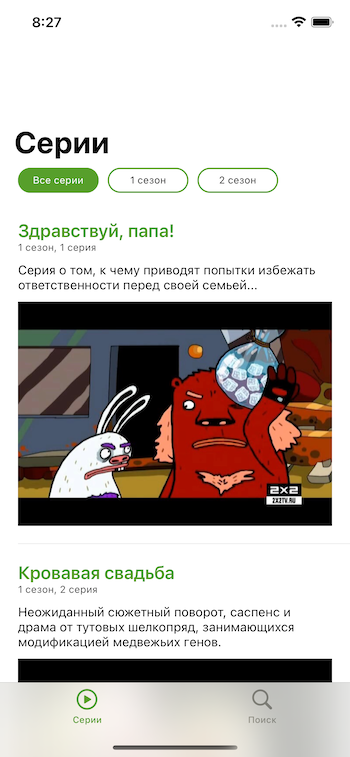
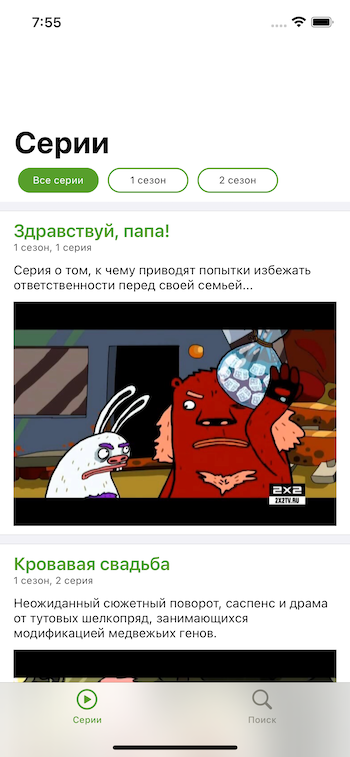
Improving the series list

diff --git a/App/Atomles/Classes/Presentation/Scenes/Series List/View/SeriesListViewController.swift b/App/Atomles/Classes/Presentation/Scenes/Series List/View/SeriesListViewController.swift
@@ -7,7 +7,7 @@
 
 import UIKit
 
-protocol SeriesViewProtocol: AnyObject {
+protocol SeriesListViewProtocol: AnyObject {
     func reloadData()
 }
 
@@ -30,7 +30,7 @@ class SeriesViewController: UIViewController {
     }
     
     // MARK: - Properties
-    var presenter: SeriesPresenterProtocol?
+    var presenter: SeriesListPresenterProtocol?
         
     private var seriesFilter: SeriesFilter = .all
     
@@ -49,11 +49,15 @@ class SeriesViewController: UIViewController {
     }()
     
     private lazy var seriesListTableView: UITableView = {
-        let tableView = UITableView()
+        let tableView = UITableView(frame: .zero, style: .grouped)
         tableView.register(EpisodeCell.self, forCellReuseIdentifier: EpisodeCell.reuseId)
+        tableView.tableHeaderView = .init(frame: .init(x: 0, y: 0, width: 0, height: 10))
+        tableView.tableFooterView = .init(frame: .init(x: 0, y: 0, width: 0, height: CGFloat.leastNonzeroMagnitude))
+        tableView.sectionHeaderHeight = 0
+        tableView.sectionFooterHeight = 10
+        tableView.translatesAutoresizingMaskIntoConstraints = false
         tableView.delegate = self
         tableView.dataSource = self
-        tableView.translatesAutoresizingMaskIntoConstraints = false
         return tableView
     }()
     
@@ -65,7 +69,7 @@ class SeriesViewController: UIViewController {
 }
 
 // MARK: - View Protocol
-extension SeriesViewController: SeriesViewProtocol {
+extension SeriesViewController: SeriesListViewProtocol {
     
     func reloadData() {
         seriesListTableView.reloadData()
@@ -85,9 +89,12 @@ extension SeriesViewController: UICollectionViewDelegate, UICollectionViewDataSo
         guard let filter = SeriesFilter(rawValue: indexPath.item) else { return cell }
         
         switch filter {
-        case .all:     cell.configure(with: "Все серии")
-        case .season1: cell.configure(with: "1 сезон")
-        case .season2: cell.configure(with: "2 сезон")
+        case .all:
+            cell.configure(with: "Все серии")
+        case .season1:
+            cell.configure(with: "1 сезон")
+        case .season2:
+            cell.configure(with: "2 сезон")
         }
         
         if filter == seriesFilter {
@@ -118,7 +125,11 @@ extension SeriesViewController: UICollectionViewDelegate, UICollectionViewDataSo
 extension SeriesViewController: UITableViewDelegate, UITableViewDataSource {
     
     func tableView(_ tableView: UITableView, numberOfRowsInSection section: Int) -> Int {
-        return presenter?.numberOfRowsInSection() ?? 0
+        return 1
+    }
+    
+    func numberOfSections(in tableView: UITableView) -> Int {
+        return presenter?.numberOfSections() ?? 0
     }
     
     func tableView(_ tableView: UITableView, cellForRowAt indexPath: IndexPath) -> UITableViewCell {

diff --git a/App/Atomles/Classes/Presentation/Scenes/Series List/Presenter/SeriesListPresenter.swift b/App/Atomles/Classes/Presentation/Scenes/Series List/Presenter/SeriesListPresenter.swift
@@ -1,5 +1,5 @@
 //
-//  SeriesPresenter.swift
+//  SeriesListPresenter.swift
 //  Atomles
 //
 //  Created by Ildar on 25.03.2022.
@@ -7,25 +7,25 @@
 
 import Foundation
 
-protocol SeriesPresenterProtocol {
+protocol SeriesListPresenterProtocol {
     func viewDidLoad()
     func seriesForRowAt(indexPath: IndexPath) -> SeriesResponse?
-    func numberOfRowsInSection() -> Int?
+    func numberOfSections() -> Int?
     func retreiveLink(indexPath: IndexPath) -> String?
     func setSeriesFilter(filter: SeriesFilter)
 }
 
-class SeriesPresenter {
+class SeriesListPresenter {
     
     // MARK: - Properties
-    weak var view: SeriesViewProtocol!
+    weak var view: SeriesListViewProtocol!
     private let seriesService: SeriesServiceProtocol
     
     private var allSeries: [SeriesResponse]?
     private var series: [SeriesResponse]?
     
     // MARK: - Initialization
-    init(view: SeriesViewProtocol, seriesService: SeriesServiceProtocol) {
+    init(view: SeriesListViewProtocol, seriesService: SeriesServiceProtocol) {
         self.view = view
         self.seriesService = seriesService
     }
@@ -43,26 +43,26 @@ class SeriesPresenter {
 }
 
 // MARK: - Presenter Protocol
-extension SeriesPresenter: SeriesPresenterProtocol {
+extension SeriesListPresenter: SeriesListPresenterProtocol {
     
     func viewDidLoad() {
         loadAllSeries()
     }
     
     func seriesForRowAt(indexPath: IndexPath) -> SeriesResponse? {
-        guard let series = series?[indexPath.row] else {
+        guard let series = series?[indexPath.section] else {
             return nil
         }
 
         return series
     }
     
-    func numberOfRowsInSection() -> Int? {
+    func numberOfSections() -> Int? {
         return series?.count
     }
     
     func retreiveLink(indexPath: IndexPath) -> String? {
-        guard let series = series?[indexPath.row] else {
+        guard let series = series?[indexPath.section] else {
             return nil
         }
 

diff --git a/App/Atomles/Classes/Presentation/Scenes/Series List/View/Cell/EpisodeCell.swift b/App/Atomles/Classes/Presentation/Scenes/Series List/View/Cell/EpisodeCell.swift
@@ -25,7 +25,7 @@ class EpisodeCell: UITableViewCell {
     private let titleLabel: UILabel = {
         let label = UILabel()
         label.font = UIFont.systemFont(ofSize: 20, weight: .semibold)
-        label.textColor = Colors.seriesFilterButtonColor
+        label.textColor = #colorLiteral(red: 0.3411764801, green: 0.6235294342, blue: 0.1686274558, alpha: 1)
         label.numberOfLines = 0
         label.translatesAutoresizingMaskIntoConstraints = false
         return label
@@ -71,9 +71,9 @@ extension EpisodeCell {
         self.contentView.addSubview(previewImageView)
         
         NSLayoutConstraint.activate([
-            titleLabel.leadingAnchor.constraint(equalTo: self.contentView.layoutMarginsGuide.leadingAnchor),
-            titleLabel.trailingAnchor.constraint(equalTo: self.contentView.layoutMarginsGuide.trailingAnchor),
-            titleLabel.topAnchor.constraint(equalTo: self.contentView.topAnchor, constant: 20)
+            titleLabel.leadingAnchor.constraint(equalTo: self.contentView.leadingAnchor, constant: 15),
+            titleLabel.trailingAnchor.constraint(equalTo: self.contentView.trailingAnchor, constant: -15),
+            titleLabel.topAnchor.constraint(equalTo: self.contentView.topAnchor, constant: 10)
         ])
         
         NSLayoutConstraint.activate([
@@ -92,7 +92,7 @@ extension EpisodeCell {
             previewImageView.leadingAnchor.constraint(equalTo: titleLabel.leadingAnchor),
             previewImageView.trailingAnchor.constraint(equalTo: titleLabel.trailingAnchor),
             previewImageView.topAnchor.constraint(equalTo: descriptionLabel.bottomAnchor, constant: 10),
-            previewImageView.bottomAnchor.constraint(equalTo: contentView.bottomAnchor, constant: -20),
+            previewImageView.bottomAnchor.constraint(equalTo: contentView.bottomAnchor, constant: -10),
             previewImageView.heightAnchor.constraint(equalToConstant: 250)
         ])
     }

diff --git a/App/Atomles/Classes/Presentation/Scenes/Series List/View/Cell/SeriesFilterCell.swift b/App/Atomles/Classes/Presentation/Scenes/Series List/View/Cell/SeriesFilterCell.swift
@@ -24,7 +24,7 @@ class SeriesFilterCell: UICollectionViewCell {
     // MARK: - Properties
     private let seriesFilterButton: UIView = {
         let button = UIView()
-        button.layer.borderColor = Colors.seriesFilterButtonColor.cgColor
+        button.layer.borderColor = #colorLiteral(red: 0.3411764801, green: 0.6235294342, blue: 0.1686274558, alpha: 1)
         button.layer.borderWidth = 1.5
         button.layer.cornerRadius = 14
         button.translatesAutoresizingMaskIntoConstraints = false
@@ -34,7 +34,7 @@ class SeriesFilterCell: UICollectionViewCell {
     private let seriesFilterTitleLabel: UILabel = {
         let label = UILabel()
         label.font = UIFont.systemFont(ofSize: Dimensions.seriesFilterFontSize)
-        label.textColor = Colors.seriesFilterTitleColor
+        label.textColor = #colorLiteral(red: 0.1699999571, green: 0.1699999571, blue: 0.1699999571, alpha: 1)
         label.translatesAutoresizingMaskIntoConstraints = false
         return label
     }()
@@ -44,13 +44,13 @@ class SeriesFilterCell: UICollectionViewCell {
     }
     
     func select() {
-        seriesFilterButton.backgroundColor = Colors.seriesFilterButtonColor
+        seriesFilterButton.backgroundColor = #colorLiteral(red: 0.3411764801, green: 0.6235294342, blue: 0.1686274558, alpha: 1)
         seriesFilterTitleLabel.textColor = .white
     }
     
     func deselect() {
         seriesFilterButton.backgroundColor = .none
-        seriesFilterTitleLabel.textColor = Colors.seriesFilterTitleColor
+        seriesFilterTitleLabel.textColor = #colorLiteral(red: 0.1699999571, green: 0.1699999571, blue: 0.1699999571, alpha: 1)
     }
 }
 

diff --git a/App/Atomles/Classes/Presentation/Scenes/Tab Bar/Coordinator/TabBarCoordinator.swift b/App/Atomles/Classes/Presentation/Scenes/Tab Bar/Coordinator/TabBarCoordinator.swift
@@ -21,7 +21,7 @@ class TabBarCoordinator: Coordinator {
         let seriesNavigationController = UINavigationController()
         seriesNavigationController.tabBarItem = UITabBarItem(
             title: "Серии", image: UIImage(systemName: "play.circle"), tag: 1)
-        let seriesCoordinator = SeriesCoordinator(navigationController: seriesNavigationController)
+        let seriesListCoordinator = SeriesListCoordinator(navigationController: seriesNavigationController)
         
         let searchNavigationController = UINavigationController()
         searchNavigationController.tabBarItem = UITabBarItem(
@@ -32,7 +32,7 @@ class TabBarCoordinator: Coordinator {
         
         navigationController.viewControllers = [tabBarController]
         
-        coordinate(to: seriesCoordinator)
+        coordinate(to: seriesListCoordinator)
         coordinate(to: searchCoordinator)
     }
 }

diff --git a/App/Atomles/Classes/Presentation/Scenes/Series List/Coordinator/SeriesListCoordinator.swift b/App/Atomles/Classes/Presentation/Scenes/Series List/Coordinator/SeriesListCoordinator.swift
@@ -1,0 +1,28 @@
+//
+//  SeriesListCoordinator.swift
+//  Atomles
+//
+//  Created by Ildar on 25.03.2022.
+//
+
+import UIKit
+
+class SeriesListCoordinator: Coordinator {
+    
+    let navigationController: UINavigationController
+    
+    init(navigationController: UINavigationController) {
+        self.navigationController = navigationController
+    }
+    
+    func start() {
+        let seriesListViewController = SeriesViewController()
+        let seriesListPresenter = SeriesListPresenter(
+            view: seriesListViewController,
+            seriesService: SeriesService()
+        )
+        seriesListViewController.presenter = seriesListPresenter
+        
+        navigationController.pushViewController(seriesListViewController, animated: true)
+    }
+}

diff --git a/App/Atomles/Classes/Core/Utilites/Colors.swift b/App/Atomles/Classes/Core/Utilites/Colors.swift
@@ -10,7 +10,4 @@ import UIKit
 struct Colors {
     
     static let tabBarTintColor = #colorLiteral(red: 0.3411764801, green: 0.6235294342, blue: 0.1686274558, alpha: 1)
-    
-    static let seriesFilterButtonColor = #colorLiteral(red: 0.3411764801, green: 0.6235294342, blue: 0.1686274558, alpha: 1)
-    static let seriesFilterTitleColor = #colorLiteral(red: 0.1992851496, green: 0.1992851496, blue: 0.1992851496, alpha: 1)
 }
